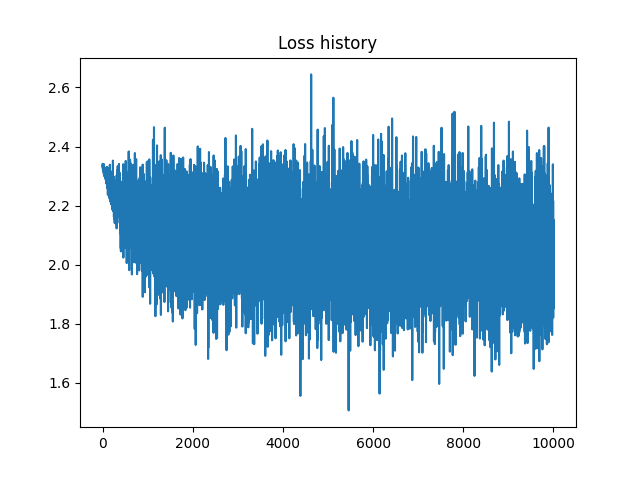
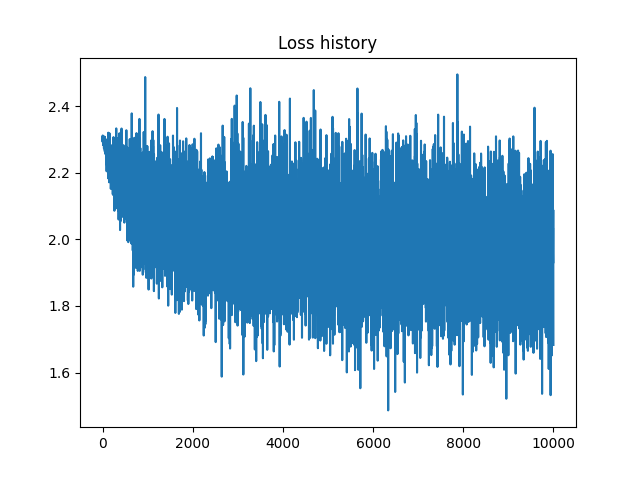
seminar 3 done with training 2-layer net

diff --git a/src/seminar3.py b/src/seminar3.py
@@ -255,14 +255,14 @@ class TwoLayerNet:
 
 def train_2layer():
     (x_train, y_train), (x_test, y_test) = get_preprocessed_data()
-    hidden_layer_size = 64
+    hidden_layer_size = 32
     n_input = x_train.shape[1]
     n_output = 10
 
     reg = 0.1
-    learning_rate = 1e-3
-    num_iters = 5000
-    batch_size = 128
+    learning_rate = 1e-2
+    num_iters = 10**3
+    batch_size = 64
 
     model = TwoLayerNet(n_input, n_output, hidden_layer_size, reg)
 
@@ -290,7 +290,8 @@ def train_2layer():
 
     print(report)
 
-    out_dir = '../output/seminar3'
+    out_dir = '..\\output\\seminar3'
+    print(os.path.join(out_dir, 'report.md'))
     report_path = os.path.join(out_dir, 'report.md')
     with open(report_path, 'w') as f:
         f.write(report)

diff --git a/src/seminar2.py b/src/seminar2.py
@@ -178,7 +178,7 @@ Test accuracy: {cls.evaluate(x_test, y_test)}
 
     print(report)
 
-    out_dir = 'output/seminar2'
+    out_dir = '..\\output\\seminar2'
     report_path = os.path.join(out_dir, 'report.md')
     with open(report_path, 'w') as f:
         f.write(report)

diff --git a/output/seminar2/report.md b/output/seminar2/report.md
@@ -1,14 +1,14 @@
 # Training Softmax classifier  
-datetime: 2023-09-30 12:22:40  
+datetime: 2023-10-14 14:12:22  
 Well done in: 9 seconds  
 learning_rate = 0.0001  
 reg = 0.01  
 num_iters = 10000  
 batch_size = 16  
 
-Final loss: 1.853406822122961   
-Train accuracy: 0.34164   
-Test accuracy: 0.3445  
+Final loss: 1.682852935178062   
+Train accuracy: 0.34206   
+Test accuracy: 0.3441  
     
 <img src="weights.png">  
 <br>
